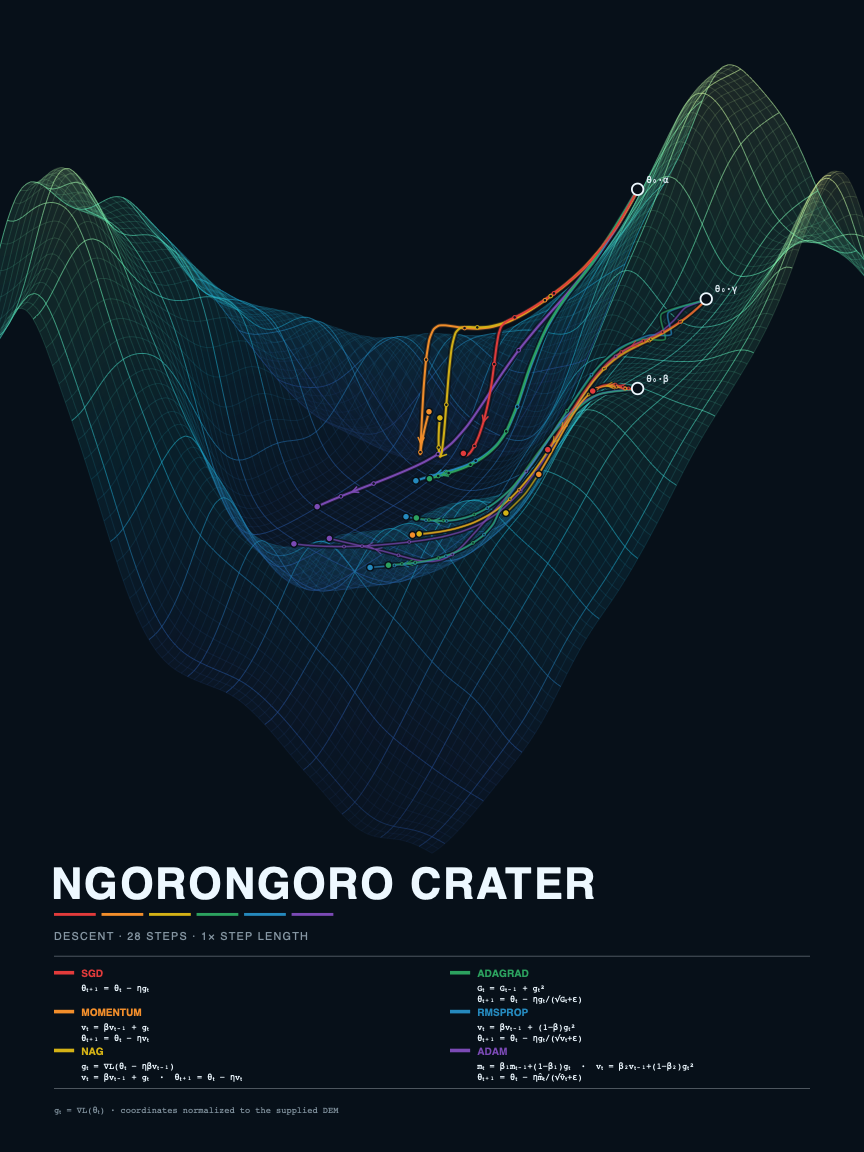
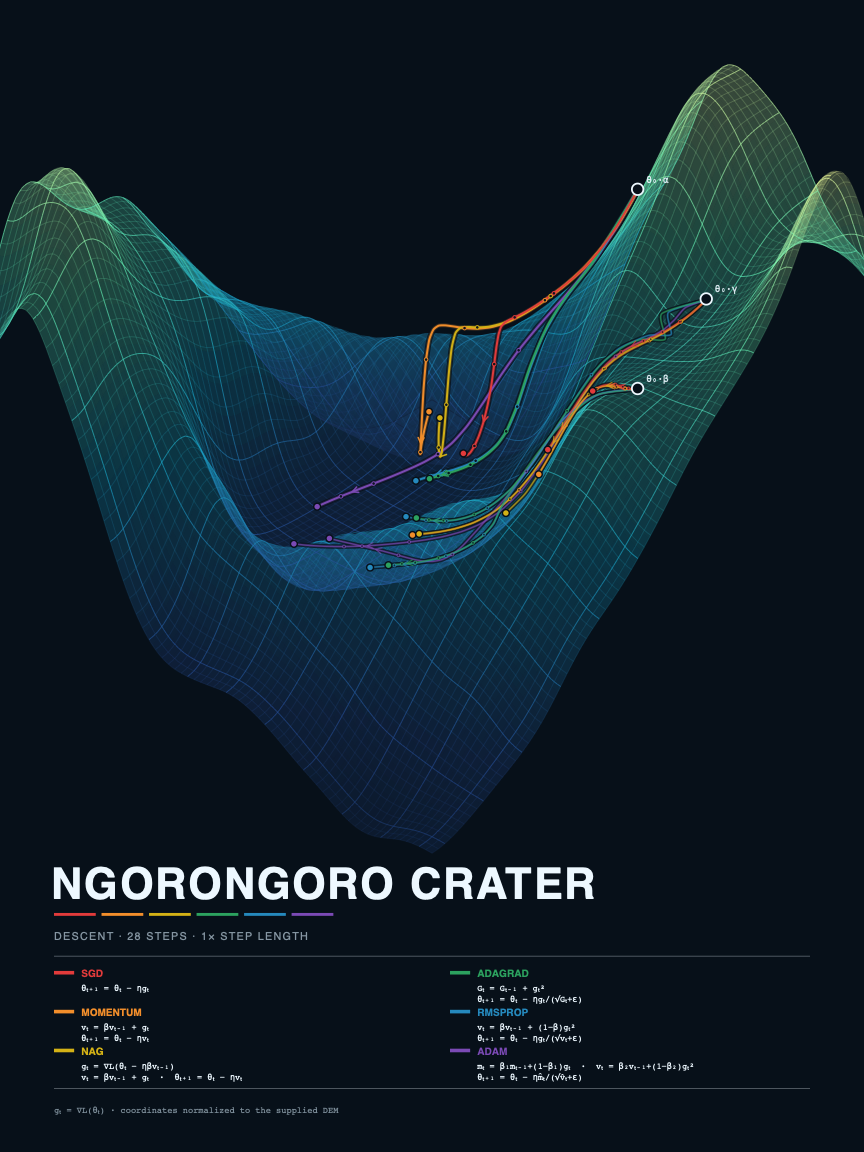
fix(render): brighten dark surfaces

Changed region(s): [[0.0, 0.0625, 1.0, 0.5312]]

diff --git a/src/gradient_atlas/web/app.js b/src/gradient_atlas/web/app.js
@@ -125,8 +125,8 @@ function drawTerrainCanvas(target) {
     }
   }
   const dark=$('#theme').value==='dark';
-  context.putImageData(image,0,0); context.fillStyle=dark?'rgba(7,16,25,.22)':'rgba(248,245,238,.08)';context.fillRect(0,0,w,h);
-  context.strokeStyle=dark?'rgba(237,248,255,.32)':'rgba(255,255,255,.22)'; context.lineWidth=1;
+  context.putImageData(image,0,0); context.fillStyle=dark?'rgba(7,16,25,.08)':'rgba(248,245,238,.08)';context.fillRect(0,0,w,h);
+  context.strokeStyle=dark?'rgba(237,248,255,.42)':'rgba(255,255,255,.22)'; context.lineWidth=1;
   for(let i=0;i<=16;i++) {
     context.beginPath();context.moveTo(i*w/16,0);context.lineTo(i*w/16,h);context.stroke();
     context.beginPath();context.moveTo(0,i*h/16);context.lineTo(w,i*h/16);context.stroke();

diff --git a/src/gradient_atlas/web/index.html b/src/gradient_atlas/web/index.html
@@ -135,7 +135,7 @@
           <label>Tile rotation<select id="tileRotation"><option value="0">0°</option><option value="90">90° clockwise</option><option value="180">180°</option><option value="270">270° clockwise</option></select></label>
           <label>Relief mode<select id="reliefMode"><option value="natural">Natural aspect</option><option value="subtle" selected>Subtle boost</option><option value="dramatic">Dramatic</option><option value="manual">Manual</option></select></label>
           <label>Height scale<input id="heightScale" type="number" min="0.05" max="2" step="0.01" value="0.45"></label>
-          <label>Colour wash<input id="fillOpacity" type="number" min="0" max="0.5" step="0.02" value="0.16"></label>
+          <label>Colour wash<input id="fillOpacity" type="number" min="0" max="0.5" step="0.02" value="0.24"></label>
         </div>
         <p id="reliefHint" class="source-hint">Subtle boost uses 1.45× the terrain's physical relief.</p>
       </section>

diff --git a/src/gradient_atlas/render.py b/src/gradient_atlas/render.py
@@ -27,13 +27,15 @@ THEMES = {
         "muted": "#17324d",
         "rule_opacity": 0.35,
         "grid_opacity": (0.72, 0.38),
+        "min_fill_opacity": 0.0,
     },
     "dark": {
         "paper": "#071019",
         "ink": "#edf8ff",
         "muted": "#b7cbd8",
         "rule_opacity": 0.42,
-        "grid_opacity": (0.86, 0.50),
+        "grid_opacity": (0.96, 0.66),
+        "min_fill_opacity": 0.22,
     },
 }
 INK, PAPER = THEMES["light"]["ink"], THEMES["light"]["paper"]
@@ -160,6 +162,7 @@ def render(surface: Surface, config: dict, output: str | Path) -> Path:
     theme = THEMES.get(str(config.get("theme", "light")).lower(), THEMES["light"])
     paper, ink, muted = theme["paper"], theme["ink"], theme["muted"]
     major_grid_opacity, minor_grid_opacity = theme["grid_opacity"]
+    fill_opacity = max(fill_opacity, float(theme["min_fill_opacity"]))
     palette_value = config.get("palette", "spectrum")
     palette = tuple(palette_value) if isinstance(palette_value, list) else PALETTES.get(palette_value, PALETTES["spectrum"])
     methods = config.get("optimizers", list(OPTIMIZER_COLORS))

diff --git a/tests/test_core.py b/tests/test_core.py
@@ -71,6 +71,8 @@ class CoreTests(unittest.TestCase):
             svg = target.read_text(encoding="utf-8")
             self.assertIn('fill="#071019"', svg)
             self.assertIn('fill="#edf8ff"', svg)
+            self.assertIn('fill-opacity="0.22"', svg)
+            self.assertIn('opacity="0.96"', svg)
             self.assertIn("θ₀·α", svg)
             self.assertNotIn("START 1", svg)
 

diff --git a/README.md b/README.md
@@ -122,7 +122,7 @@ gradient-atlas examples/ngorongoro.json --steps 40 --start 0.65,0.40 --start 0.3
 | `vertical_scale` | Visual height exaggeration |
 | `auto_fit` | Measure and fit each surface into the available vertical poster area |
 | `surface_top` / `surface_bottom` | Vertical framing bounds; with print dimensions, the lower bound is derived from the page aspect |
-| `fill_opacity` | Transparent colour wash beneath the wireframe |
+| `fill_opacity` | Transparent colour wash beneath the wireframe; dark theme enforces a brighter minimum |
 | `png_preview` | Also create a PNG when a converter is available |
 
 A custom colour map is simply: